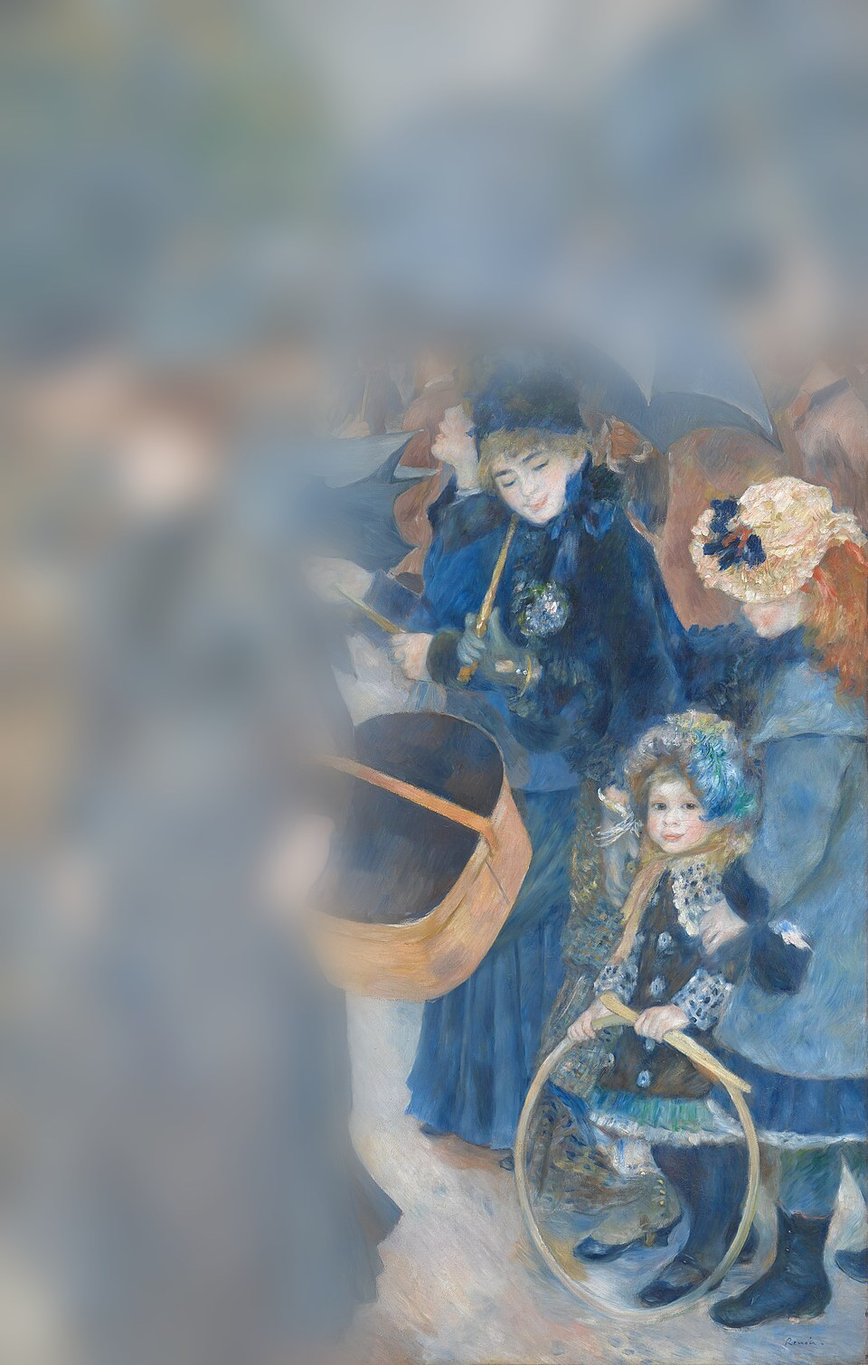
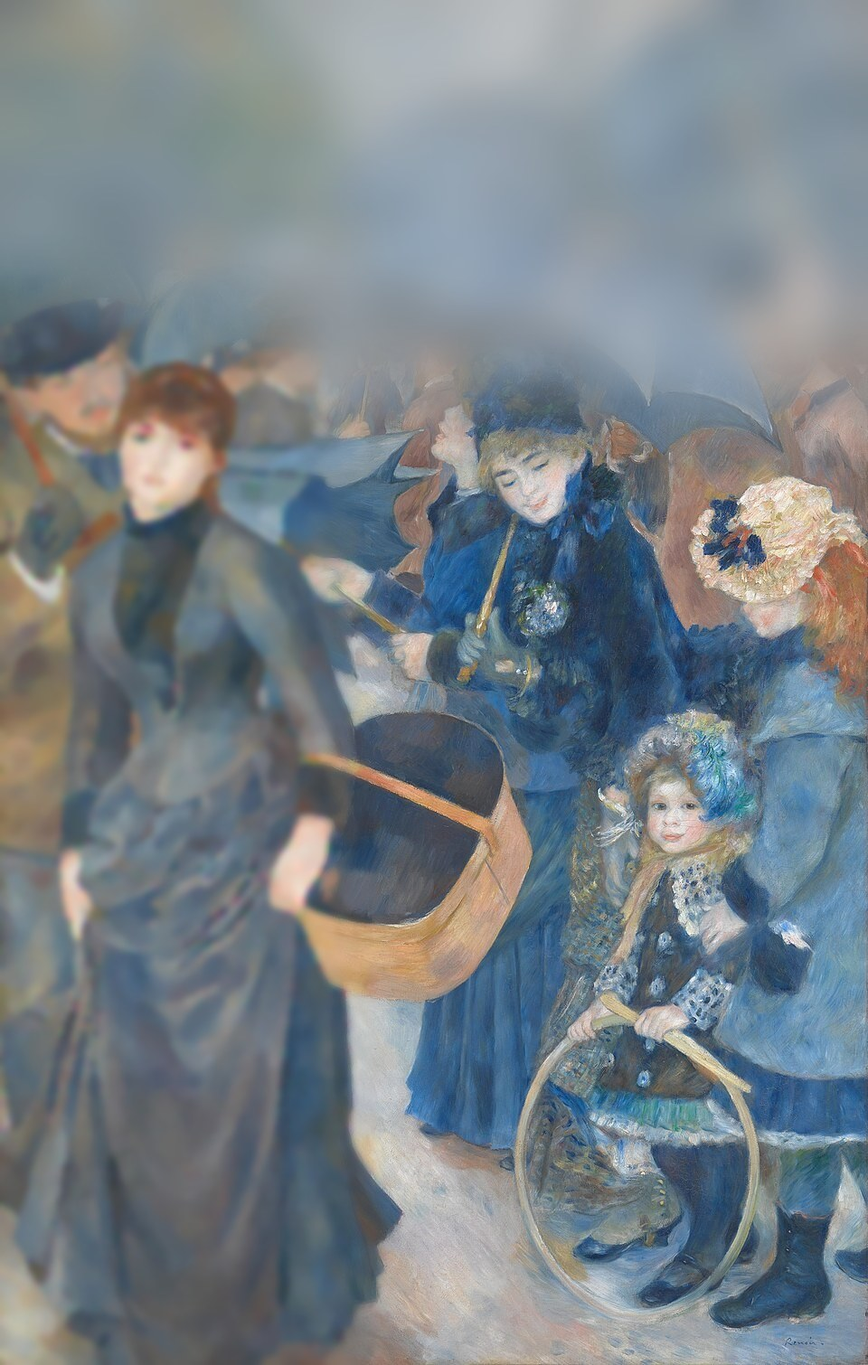
Cards show paintings at their own shape; new share image (The Starry Night); Umbrellas edits
- Cards: no grey box behind paintings; each painting is shown whole at its
  own proportions, standing on a shared baseline with a soft shadow, left
  edge aligned with its title.
- Share preview (og:image) for home and browse pages: The Starry Night,
  centred, as assets/og-share.jpg (new name so chat apps drop the old
  cached preview).
- The Umbrellas: card 4 text updated; the 1881 illustration now fades the
  umbrellas and crowd and gives the two figures on the left softer
  brushwork, leaving the right-hand group unchanged.

Claude-Session: https://claude.ai/code/session_01TkoJmgnnvFWZvrVQuTZ4Va

Changed region(s): [[0.0, 0.2179, 0.4688, 1.0], [0.0, 0.996, 0.0312, 1.0]]

diff --git a/scenes/umbrellas/index.html b/scenes/umbrellas/index.html
@@ -43,7 +43,7 @@
       <p>图片：Wikimedia Commons，公有领域 / Image: Wikimedia Commons, public domain</p>
       <img src="images/umbrellas.jpg" alt="雷诺阿《伞》约1881–86，伦敦国家美术馆 · Pierre-Auguste Renoir, The Umbrellas, about 1881–6, The National Gallery, London" width="960" height="1510" />
       <h2>发现 · Discover</h2>
-      <h3><span lang="zh-CN">一片伞</span> <span lang="en">A canopy of umbrellas</span></h3><p lang="zh-CN">画面上方四分之一，几乎都被至少十几把伞遮住了。</p> <p lang="en">The top quarter of the picture is mostly filled by a canopy of at least a dozen umbrellas.</p><h3><span lang="zh-CN">母亲和两个女儿</span> <span lang="en">A mother and her daughters</span></h3><p lang="zh-CN">右边是一位母亲和两个女儿。这一组用的是典型的印象派笔法，轻柔得像羽毛。</p> <p lang="en">On the right are a mother and her two daughters, painted in a typically Impressionist way, with soft, feathery touches.</p><h3><span lang="zh-CN">打开伞的女子</span> <span lang="en">Opening an umbrella</span></h3><p lang="zh-CN">中间那位侧面女子，抬头看着，正在打开她的伞。</p> <p lang="en">The woman in profile in the centre looks up as she opens her umbrella.</p><h3><span lang="zh-CN">左边的年轻女子</span> <span lang="en">The young woman on the left</span></h3><p lang="zh-CN">左边这位年轻女子轮廓分明、五官精确，和右边的人物画法完全不同。她是几年后才画上去的。</p> <p lang="en">The young woman on the left has clear outlines and precisely drawn features, quite unlike the figures on the right. She was painted several years later.</p><h3><span lang="zh-CN">时装会说话</span> <span lang="en">Fashion tells the date</span></h3><p lang="zh-CN">右边人物的衣服是1881年左右的款式；左边年轻女子的裙子，线条更硬朗，到1885年左右才流行起来。</p> <p lang="en">The clothes on the right follow the fashion of around 1881. The dress of the young woman on the left, with its more severe lines, only came into fashion around 1885.</p><h3><span lang="zh-CN">很难卖出去</span> <span lang="en">Hard to sell</span></h3><p lang="zh-CN">同一幅画里有两种画法、两种时装，这让它在雷诺阿生前很难卖出去。</p> <p lang="en">Two styles and two fashions in one picture made it hard to sell during Renoir&#x27;s lifetime.</p>
+      <h3><span lang="zh-CN">一片伞</span> <span lang="en">A canopy of umbrellas</span></h3><p lang="zh-CN">画面上方四分之一，几乎都被至少十几把伞遮住了。</p> <p lang="en">The top quarter of the picture is mostly filled by a canopy of at least a dozen umbrellas.</p><h3><span lang="zh-CN">母亲和两个女儿</span> <span lang="en">A mother and her daughters</span></h3><p lang="zh-CN">右边是一位母亲和两个女儿。这一组用的是典型的印象派笔法，轻柔得像羽毛。</p> <p lang="en">On the right are a mother and her two daughters, painted in a typically Impressionist way, with soft, feathery touches.</p><h3><span lang="zh-CN">打开伞的女子</span> <span lang="en">Opening an umbrella</span></h3><p lang="zh-CN">中间那位侧面女子，抬头看着，正在打开她的伞。</p> <p lang="en">The woman in profile in the centre looks up as she opens her umbrella.</p><h3><span lang="zh-CN">左边的年轻女子</span> <span lang="en">The young woman on the left</span></h3><p lang="zh-CN">她最初也是在1881年左右画的，四年后被雷诺阿重新画过：轮廓更分明，五官更精确，和右边的人物画法完全不同。</p> <p lang="en">She was first painted around 1881, then repainted by Renoir about four years later, with clearer outlines and more precise features, quite unlike the figures on the right.</p><h3><span lang="zh-CN">时装会说话</span> <span lang="en">Fashion tells the date</span></h3><p lang="zh-CN">右边人物的衣服是1881年左右的款式；左边年轻女子的裙子，线条更硬朗，到1885年左右才流行起来。</p> <p lang="en">The clothes on the right follow the fashion of around 1881. The dress of the young woman on the left, with its more severe lines, only came into fashion around 1885.</p><h3><span lang="zh-CN">很难卖出去</span> <span lang="en">Hard to sell</span></h3><p lang="zh-CN">同一幅画里有两种画法、两种时装，这让它在雷诺阿生前很难卖出去。</p> <p lang="en">Two styles and two fashions in one picture made it hard to sell during Renoir&#x27;s lifetime.</p>
       <h2>故事 · The story</h2>
       <h3>ACT I <span lang="zh-CN">第一幕 · 1881年</span> <span lang="en">1881</span></h3><p lang="zh-CN">大约1881年，雷诺阿用轻柔的印象派笔法，画下了右边的母亲、两个女儿和打开伞的女子。</p> <p lang="en">Around 1881, Renoir painted the mother, her two daughters and the woman opening her umbrella on the right, in soft Impressionist brushstrokes.</p><p>约1881–86年 · 伦敦国家美术馆 / About 1881–6 · The National Gallery, London</p><h3>ACT II <span lang="zh-CN">第二幕 · 四年后</span> <span lang="en">Four years later</span></h3><p lang="zh-CN">大约四年后，他又回到这幅画前。这时他已经开始离开印象派，转向古典艺术。他重新画了左边的两个人物，加上了背景里的人群和所有的伞。</p> <p lang="en">About four years later he returned to the canvas. By now he was moving away from Impressionism towards classical art. He reworked the two figures on the left, and added the crowd behind and all the umbrellas.</p><p>约1881–86年 · 伦敦国家美术馆 / About 1881–6 · The National Gallery, London</p><h3>ACT III <span lang="zh-CN">第三幕 · 伦敦与都柏林</span> <span lang="en">London and Dublin</span></h3><p lang="zh-CN">1917年，它作为休·莱恩爵士遗赠的一部分，进入伦敦国家美术馆，并和都柏林的休·莱恩美术馆轮流展出。2026年到2031年，它长期借展给都柏林；2026年10月到2027年1月，它暂时回到伦敦，在国家美术馆的展览《雷诺阿与爱》中展出。</p> <p lang="en">In 1917, it came to the National Gallery in London as part of the Sir Hugh Lane Bequest, and is shared with the Hugh Lane Gallery in Dublin. It is on long loan to Dublin from 2026 to 2031; from October 2026 to January 2027 it is back in London for the National Gallery&#x27;s exhibition <i>Renoir and Love</i>.</p><p>约1881–86年 · 伦敦国家美术馆 / About 1881–6 · The National Gallery, London</p>
       <p><strong><span lang="zh-CN">一幅画，两个雷诺阿。</span> <span lang="en">One painting, two Renoirs.</span></strong></p>

diff --git a/about/index.html b/about/index.html
@@ -15,15 +15,15 @@
   <meta property="og:url" content="https://tiaz369.github.io/walk-into-paintings/about/" />
   <meta property="og:title" content="关于 · About — 走进名画 | Walk into Paintings" />
   <meta property="og:description" content="走进名画是一座可以走进去的线上美术馆。每一幅名画都被做成一个可以探索的空间：走进画里，发现细节，听它背后的故事，最后去博物馆看真迹。 Walk into Paintings is an online gallery you can step inside. Each painting becomes a space to explore: walk in, discover details, hear the story behind it, then go and see the real thing in a museum." />
-  <meta property="og:image" content="https://tiaz369.github.io/walk-into-paintings/assets/og-home.jpg" />
-  <meta property="og:image:alt" content="梵高《阿尔勒的卧室》、维米尔《戴珍珠耳环的少女》、梵高《向日葵》· Van Gogh&#x27;s The Bedroom, Vermeer&#x27;s Girl with a Pearl Earring, Van Gogh&#x27;s Sunflowers" />
+  <meta property="og:image" content="https://tiaz369.github.io/walk-into-paintings/assets/og-share.jpg" />
+  <meta property="og:image:alt" content="梵高《星夜》，1889，纽约现代艺术博物馆 · Vincent van Gogh, The Starry Night, 1889, The Museum of Modern Art, New York" />
   <meta property="og:image:width" content="1200" />
   <meta property="og:image:height" content="630" />
   <meta name="twitter:card" content="summary_large_image" />
   <meta name="twitter:title" content="关于 · About — 走进名画 | Walk into Paintings" />
   <meta name="twitter:description" content="走进名画是一座可以走进去的线上美术馆。每一幅名画都被做成一个可以探索的空间：走进画里，发现细节，听它背后的故事，最后去博物馆看真迹。 Walk into Paintings is an online gallery you can step inside. Each painting becomes a space to explore: walk in, discover details, hear the story behind it, then go and see the real thing in a museum." />
-  <meta name="twitter:image" content="https://tiaz369.github.io/walk-into-paintings/assets/og-home.jpg" />
-  <meta name="twitter:image:alt" content="梵高《阿尔勒的卧室》、维米尔《戴珍珠耳环的少女》、梵高《向日葵》· Van Gogh&#x27;s The Bedroom, Vermeer&#x27;s Girl with a Pearl Earring, Van Gogh&#x27;s Sunflowers" />
+  <meta name="twitter:image" content="https://tiaz369.github.io/walk-into-paintings/assets/og-share.jpg" />
+  <meta name="twitter:image:alt" content="梵高《星夜》，1889，纽约现代艺术博物馆 · Vincent van Gogh, The Starry Night, 1889, The Museum of Modern Art, New York" />
   <script>document.documentElement.classList.add('js')</script>
   <link rel="preconnect" href="https://fonts.googleapis.com" />
   <link rel="preconnect" href="https://fonts.gstatic.com" crossorigin />

diff --git a/london/index.html b/london/index.html
@@ -15,15 +15,15 @@
   <meta property="og:url" content="https://tiaz369.github.io/walk-into-paintings/london/" />
   <meta property="og:title" content="在伦敦看真迹 · See them in London — 走进名画 | Walk into Paintings" />
   <meta property="og:description" content="在伦敦看真迹 · See them in London：伦敦国家美术馆，特拉法加广场，常设展免费 / The National Gallery, Trafalgar Square. Free entry to the permanent collection.；考陶尔德美术馆，萨默塞特宫 / The Courtauld Gallery, Somerset House" />
-  <meta property="og:image" content="https://tiaz369.github.io/walk-into-paintings/assets/og-home.jpg" />
-  <meta property="og:image:alt" content="梵高《阿尔勒的卧室》、维米尔《戴珍珠耳环的少女》、梵高《向日葵》· Van Gogh&#x27;s The Bedroom, Vermeer&#x27;s Girl with a Pearl Earring, Van Gogh&#x27;s Sunflowers" />
+  <meta property="og:image" content="https://tiaz369.github.io/walk-into-paintings/assets/og-share.jpg" />
+  <meta property="og:image:alt" content="梵高《星夜》，1889，纽约现代艺术博物馆 · Vincent van Gogh, The Starry Night, 1889, The Museum of Modern Art, New York" />
   <meta property="og:image:width" content="1200" />
   <meta property="og:image:height" content="630" />
   <meta name="twitter:card" content="summary_large_image" />
   <meta name="twitter:title" content="在伦敦看真迹 · See them in London — 走进名画 | Walk into Paintings" />
   <meta name="twitter:description" content="在伦敦看真迹 · See them in London：伦敦国家美术馆，特拉法加广场，常设展免费 / The National Gallery, Trafalgar Square. Free entry to the permanent collection.；考陶尔德美术馆，萨默塞特宫 / The Courtauld Gallery, Somerset House" />
-  <meta name="twitter:image" content="https://tiaz369.github.io/walk-into-paintings/assets/og-home.jpg" />
-  <meta name="twitter:image:alt" content="梵高《阿尔勒的卧室》、维米尔《戴珍珠耳环的少女》、梵高《向日葵》· Van Gogh&#x27;s The Bedroom, Vermeer&#x27;s Girl with a Pearl Earring, Van Gogh&#x27;s Sunflowers" />
+  <meta name="twitter:image" content="https://tiaz369.github.io/walk-into-paintings/assets/og-share.jpg" />
+  <meta name="twitter:image:alt" content="梵高《星夜》，1889，纽约现代艺术博物馆 · Vincent van Gogh, The Starry Night, 1889, The Museum of Modern Art, New York" />
   <script>document.documentElement.classList.add('js')</script>
   <link rel="preconnect" href="https://fonts.googleapis.com" />
   <link rel="preconnect" href="https://fonts.gstatic.com" crossorigin />

diff --git a/collections/national-gallery/index.html b/collections/national-gallery/index.html
@@ -15,15 +15,15 @@
   <meta property="og:url" content="https://tiaz369.github.io/walk-into-paintings/collections/national-gallery/" />
   <meta property="og:title" content="伦敦国家美术馆 · The National Gallery, London — 走进名画 | Walk into Paintings" />
   <meta property="og:description" content="伦敦国家美术馆 · The National Gallery, London：在伦敦就能看到真迹的名画 · Masterpieces you can see in London" />
-  <meta property="og:image" content="https://tiaz369.github.io/walk-into-paintings/assets/og-home.jpg" />
-  <meta property="og:image:alt" content="梵高《阿尔勒的卧室》、维米尔《戴珍珠耳环的少女》、梵高《向日葵》· Van Gogh&#x27;s The Bedroom, Vermeer&#x27;s Girl with a Pearl Earring, Van Gogh&#x27;s Sunflowers" />
+  <meta property="og:image" content="https://tiaz369.github.io/walk-into-paintings/assets/og-share.jpg" />
+  <meta property="og:image:alt" content="梵高《星夜》，1889，纽约现代艺术博物馆 · Vincent van Gogh, The Starry Night, 1889, The Museum of Modern Art, New York" />
   <meta property="og:image:width" content="1200" />
   <meta property="og:image:height" content="630" />
   <meta name="twitter:card" content="summary_large_image" />
   <meta name="twitter:title" content="伦敦国家美术馆 · The National Gallery, London — 走进名画 | Walk into Paintings" />
   <meta name="twitter:description" content="伦敦国家美术馆 · The National Gallery, London：在伦敦就能看到真迹的名画 · Masterpieces you can see in London" />
-  <meta name="twitter:image" content="https://tiaz369.github.io/walk-into-paintings/assets/og-home.jpg" />
-  <meta name="twitter:image:alt" content="梵高《阿尔勒的卧室》、维米尔《戴珍珠耳环的少女》、梵高《向日葵》· Van Gogh&#x27;s The Bedroom, Vermeer&#x27;s Girl with a Pearl Earring, Van Gogh&#x27;s Sunflowers" />
+  <meta name="twitter:image" content="https://tiaz369.github.io/walk-into-paintings/assets/og-share.jpg" />
+  <meta name="twitter:image:alt" content="梵高《星夜》，1889，纽约现代艺术博物馆 · Vincent van Gogh, The Starry Night, 1889, The Museum of Modern Art, New York" />
   <script>document.documentElement.classList.add('js')</script>
   <link rel="preconnect" href="https://fonts.googleapis.com" />
   <link rel="preconnect" href="https://fonts.gstatic.com" crossorigin />

diff --git a/collections/saint-remy/index.html b/collections/saint-remy/index.html
@@ -15,15 +15,15 @@
   <meta property="og:url" content="https://tiaz369.github.io/walk-into-paintings/collections/saint-remy/" />
   <meta property="og:title" content="梵高在圣雷米 · Van Gogh in Saint-Rémy — 走进名画 | Walk into Paintings" />
   <meta property="og:description" content="梵高在圣雷米 · Van Gogh in Saint-Rémy：1889–1890，疗养院的日子 · 1889–1890: the days in the asylum" />
-  <meta property="og:image" content="https://tiaz369.github.io/walk-into-paintings/assets/og-home.jpg" />
-  <meta property="og:image:alt" content="梵高《阿尔勒的卧室》、维米尔《戴珍珠耳环的少女》、梵高《向日葵》· Van Gogh&#x27;s The Bedroom, Vermeer&#x27;s Girl with a Pearl Earring, Van Gogh&#x27;s Sunflowers" />
+  <meta property="og:image" content="https://tiaz369.github.io/walk-into-paintings/assets/og-share.jpg" />
+  <meta property="og:image:alt" content="梵高《星夜》，1889，纽约现代艺术博物馆 · Vincent van Gogh, The Starry Night, 1889, The Museum of Modern Art, New York" />
   <meta property="og:image:width" content="1200" />
   <meta property="og:image:height" content="630" />
   <meta name="twitter:card" content="summary_large_image" />
   <meta name="twitter:title" content="梵高在圣雷米 · Van Gogh in Saint-Rémy — 走进名画 | Walk into Paintings" />
   <meta name="twitter:description" content="梵高在圣雷米 · Van Gogh in Saint-Rémy：1889–1890，疗养院的日子 · 1889–1890: the days in the asylum" />
-  <meta name="twitter:image" content="https://tiaz369.github.io/walk-into-paintings/assets/og-home.jpg" />
-  <meta name="twitter:image:alt" content="梵高《阿尔勒的卧室》、维米尔《戴珍珠耳环的少女》、梵高《向日葵》· Van Gogh&#x27;s The Bedroom, Vermeer&#x27;s Girl with a Pearl Earring, Van Gogh&#x27;s Sunflowers" />
+  <meta name="twitter:image" content="https://tiaz369.github.io/walk-into-paintings/assets/og-share.jpg" />
+  <meta name="twitter:image:alt" content="梵高《星夜》，1889，纽约现代艺术博物馆 · Vincent van Gogh, The Starry Night, 1889, The Museum of Modern Art, New York" />
   <script>document.documentElement.classList.add('js')</script>
   <link rel="preconnect" href="https://fonts.googleapis.com" />
   <link rel="preconnect" href="https://fonts.gstatic.com" crossorigin />

diff --git a/collections/arles/index.html b/collections/arles/index.html
@@ -15,15 +15,15 @@
   <meta property="og:url" content="https://tiaz369.github.io/walk-into-paintings/collections/arles/" />
   <meta property="og:title" content="梵高在阿尔勒 · Van Gogh in Arles — 走进名画 | Walk into Paintings" />
   <meta property="og:description" content="梵高在阿尔勒 · Van Gogh in Arles：1888年，等待高更的那段日子 · 1888: the days of waiting for Gauguin" />
-  <meta property="og:image" content="https://tiaz369.github.io/walk-into-paintings/assets/og-home.jpg" />
-  <meta property="og:image:alt" content="梵高《阿尔勒的卧室》、维米尔《戴珍珠耳环的少女》、梵高《向日葵》· Van Gogh&#x27;s The Bedroom, Vermeer&#x27;s Girl with a Pearl Earring, Van Gogh&#x27;s Sunflowers" />
+  <meta property="og:image" content="https://tiaz369.github.io/walk-into-paintings/assets/og-share.jpg" />
+  <meta property="og:image:alt" content="梵高《星夜》，1889，纽约现代艺术博物馆 · Vincent van Gogh, The Starry Night, 1889, The Museum of Modern Art, New York" />
   <meta property="og:image:width" content="1200" />
   <meta property="og:image:height" content="630" />
   <meta name="twitter:card" content="summary_large_image" />
   <meta name="twitter:title" content="梵高在阿尔勒 · Van Gogh in Arles — 走进名画 | Walk into Paintings" />
   <meta name="twitter:description" content="梵高在阿尔勒 · Van Gogh in Arles：1888年，等待高更的那段日子 · 1888: the days of waiting for Gauguin" />
-  <meta name="twitter:image" content="https://tiaz369.github.io/walk-into-paintings/assets/og-home.jpg" />
-  <meta name="twitter:image:alt" content="梵高《阿尔勒的卧室》、维米尔《戴珍珠耳环的少女》、梵高《向日葵》· Van Gogh&#x27;s The Bedroom, Vermeer&#x27;s Girl with a Pearl Earring, Van Gogh&#x27;s Sunflowers" />
+  <meta name="twitter:image" content="https://tiaz369.github.io/walk-into-paintings/assets/og-share.jpg" />
+  <meta name="twitter:image:alt" content="梵高《星夜》，1889，纽约现代艺术博物馆 · Vincent van Gogh, The Starry Night, 1889, The Museum of Modern Art, New York" />
   <script>document.documentElement.classList.add('js')</script>
   <link rel="preconnect" href="https://fonts.googleapis.com" />
   <link rel="preconnect" href="https://fonts.gstatic.com" crossorigin />

diff --git a/collections/delft/index.html b/collections/delft/index.html
@@ -15,15 +15,15 @@
   <meta property="og:url" content="https://tiaz369.github.io/walk-into-paintings/collections/delft/" />
   <meta property="og:title" content="维米尔的代尔夫特 · Vermeer&#x27;s Delft — 走进名画 | Walk into Paintings" />
   <meta property="og:description" content="维米尔的代尔夫特 · Vermeer&#x27;s Delft：安静的室内和光 · Quiet interiors and light" />
-  <meta property="og:image" content="https://tiaz369.github.io/walk-into-paintings/assets/og-home.jpg" />
-  <meta property="og:image:alt" content="梵高《阿尔勒的卧室》、维米尔《戴珍珠耳环的少女》、梵高《向日葵》· Van Gogh&#x27;s The Bedroom, Vermeer&#x27;s Girl with a Pearl Earring, Van Gogh&#x27;s Sunflowers" />
+  <meta property="og:image" content="https://tiaz369.github.io/walk-into-paintings/assets/og-share.jpg" />
+  <meta property="og:image:alt" content="梵高《星夜》，1889，纽约现代艺术博物馆 · Vincent van Gogh, The Starry Night, 1889, The Museum of Modern Art, New York" />
   <meta property="og:image:width" content="1200" />
   <meta property="og:image:height" content="630" />
   <meta name="twitter:card" content="summary_large_image" />
   <meta name="twitter:title" content="维米尔的代尔夫特 · Vermeer&#x27;s Delft — 走进名画 | Walk into Paintings" />
   <meta name="twitter:description" content="维米尔的代尔夫特 · Vermeer&#x27;s Delft：安静的室内和光 · Quiet interiors and light" />
-  <meta name="twitter:image" content="https://tiaz369.github.io/walk-into-paintings/assets/og-home.jpg" />
-  <meta name="twitter:image:alt" content="梵高《阿尔勒的卧室》、维米尔《戴珍珠耳环的少女》、梵高《向日葵》· Van Gogh&#x27;s The Bedroom, Vermeer&#x27;s Girl with a Pearl Earring, Van Gogh&#x27;s Sunflowers" />
+  <meta name="twitter:image" content="https://tiaz369.github.io/walk-into-paintings/assets/og-share.jpg" />
+  <meta name="twitter:image:alt" content="梵高《星夜》，1889，纽约现代艺术博物馆 · Vincent van Gogh, The Starry Night, 1889, The Museum of Modern Art, New York" />
   <script>document.documentElement.classList.add('js')</script>
   <link rel="preconnect" href="https://fonts.googleapis.com" />
   <link rel="preconnect" href="https://fonts.gstatic.com" crossorigin />

diff --git a/collections/nuenen/index.html b/collections/nuenen/index.html
@@ -15,15 +15,15 @@
   <meta property="og:url" content="https://tiaz369.github.io/walk-into-paintings/collections/nuenen/" />
   <meta property="og:title" content="梵高在纽南 · Van Gogh in Nuenen — 走进名画 | Walk into Paintings" />
   <meta property="og:description" content="梵高在纽南 · Van Gogh in Nuenen：1883–1885，荷兰时期 · 1883–1885: the Dutch years" />
-  <meta property="og:image" content="https://tiaz369.github.io/walk-into-paintings/assets/og-home.jpg" />
-  <meta property="og:image:alt" content="梵高《阿尔勒的卧室》、维米尔《戴珍珠耳环的少女》、梵高《向日葵》· Van Gogh&#x27;s The Bedroom, Vermeer&#x27;s Girl with a Pearl Earring, Van Gogh&#x27;s Sunflowers" />
+  <meta property="og:image" content="https://tiaz369.github.io/walk-into-paintings/assets/og-share.jpg" />
+  <meta property="og:image:alt" content="梵高《星夜》，1889，纽约现代艺术博物馆 · Vincent van Gogh, The Starry Night, 1889, The Museum of Modern Art, New York" />
   <meta property="og:image:width" content="1200" />
   <meta property="og:image:height" content="630" />
   <meta name="twitter:card" content="summary_large_image" />
   <meta name="twitter:title" content="梵高在纽南 · Van Gogh in Nuenen — 走进名画 | Walk into Paintings" />
   <meta name="twitter:description" content="梵高在纽南 · Van Gogh in Nuenen：1883–1885，荷兰时期 · 1883–1885: the Dutch years" />
-  <meta name="twitter:image" content="https://tiaz369.github.io/walk-into-paintings/assets/og-home.jpg" />
-  <meta name="twitter:image:alt" content="梵高《阿尔勒的卧室》、维米尔《戴珍珠耳环的少女》、梵高《向日葵》· Van Gogh&#x27;s The Bedroom, Vermeer&#x27;s Girl with a Pearl Earring, Van Gogh&#x27;s Sunflowers" />
+  <meta name="twitter:image" content="https://tiaz369.github.io/walk-into-paintings/assets/og-share.jpg" />
+  <meta name="twitter:image:alt" content="梵高《星夜》，1889，纽约现代艺术博物馆 · Vincent van Gogh, The Starry Night, 1889, The Museum of Modern Art, New York" />
   <script>document.documentElement.classList.add('js')</script>
   <link rel="preconnect" href="https://fonts.googleapis.com" />
   <link rel="preconnect" href="https://fonts.gstatic.com" crossorigin />

diff --git a/collections/stage/index.html b/collections/stage/index.html
@@ -15,15 +15,15 @@
   <meta property="og:url" content="https://tiaz369.github.io/walk-into-paintings/collections/stage/" />
   <meta property="og:title" content="舞台与排练 · Stage and Rehearsal — 走进名画 | Walk into Paintings" />
   <meta property="og:description" content="舞台与排练 · Stage and Rehearsal：德加的芭蕾世界 · Degas&#x27;s world of ballet" />
-  <meta property="og:image" content="https://tiaz369.github.io/walk-into-paintings/assets/og-home.jpg" />
-  <meta property="og:image:alt" content="梵高《阿尔勒的卧室》、维米尔《戴珍珠耳环的少女》、梵高《向日葵》· Van Gogh&#x27;s The Bedroom, Vermeer&#x27;s Girl with a Pearl Earring, Van Gogh&#x27;s Sunflowers" />
+  <meta property="og:image" content="https://tiaz369.github.io/walk-into-paintings/assets/og-share.jpg" />
+  <meta property="og:image:alt" content="梵高《星夜》，1889，纽约现代艺术博物馆 · Vincent van Gogh, The Starry Night, 1889, The Museum of Modern Art, New York" />
   <meta property="og:image:width" content="1200" />
   <meta property="og:image:height" content="630" />
   <meta name="twitter:card" content="summary_large_image" />
   <meta name="twitter:title" content="舞台与排练 · Stage and Rehearsal — 走进名画 | Walk into Paintings" />
   <meta name="twitter:description" content="舞台与排练 · Stage and Rehearsal：德加的芭蕾世界 · Degas&#x27;s world of ballet" />
-  <meta name="twitter:image" content="https://tiaz369.github.io/walk-into-paintings/assets/og-home.jpg" />
-  <meta name="twitter:image:alt" content="梵高《阿尔勒的卧室》、维米尔《戴珍珠耳环的少女》、梵高《向日葵》· Van Gogh&#x27;s The Bedroom, Vermeer&#x27;s Girl with a Pearl Earring, Van Gogh&#x27;s Sunflowers" />
+  <meta name="twitter:image" content="https://tiaz369.github.io/walk-into-paintings/assets/og-share.jpg" />
+  <meta name="twitter:image:alt" content="梵高《星夜》，1889，纽约现代艺术博物馆 · Vincent van Gogh, The Starry Night, 1889, The Museum of Modern Art, New York" />
   <script>document.documentElement.classList.add('js')</script>
   <link rel="preconnect" href="https://fonts.googleapis.com" />
   <link rel="preconnect" href="https://fonts.gstatic.com" crossorigin />

diff --git a/versions/index.html b/versions/index.html
@@ -15,15 +15,15 @@
   <meta property="og:url" content="https://tiaz369.github.io/walk-into-paintings/versions/" />
   <meta property="og:title" content="同一幅画的几个版本 · One painting, many versions — 走进名画 | Walk into Paintings" />
   <meta property="og:description" content="同一幅画的几个版本 · One painting, many versions" />
-  <meta property="og:image" content="https://tiaz369.github.io/walk-into-paintings/assets/og-home.jpg" />
-  <meta property="og:image:alt" content="梵高《阿尔勒的卧室》、维米尔《戴珍珠耳环的少女》、梵高《向日葵》· Van Gogh&#x27;s The Bedroom, Vermeer&#x27;s Girl with a Pearl Earring, Van Gogh&#x27;s Sunflowers" />
+  <meta property="og:image" content="https://tiaz369.github.io/walk-into-paintings/assets/og-share.jpg" />
+  <meta property="og:image:alt" content="梵高《星夜》，1889，纽约现代艺术博物馆 · Vincent van Gogh, The Starry Night, 1889, The Museum of Modern Art, New York" />
   <meta property="og:image:width" content="1200" />
   <meta property="og:image:height" content="630" />
   <meta name="twitter:card" content="summary_large_image" />
   <meta name="twitter:title" content="同一幅画的几个版本 · One painting, many versions — 走进名画 | Walk into Paintings" />
   <meta name="twitter:description" content="同一幅画的几个版本 · One painting, many versions" />
-  <meta name="twitter:image" content="https://tiaz369.github.io/walk-into-paintings/assets/og-home.jpg" />
-  <meta name="twitter:image:alt" content="梵高《阿尔勒的卧室》、维米尔《戴珍珠耳环的少女》、梵高《向日葵》· Van Gogh&#x27;s The Bedroom, Vermeer&#x27;s Girl with a Pearl Earring, Van Gogh&#x27;s Sunflowers" />
+  <meta name="twitter:image" content="https://tiaz369.github.io/walk-into-paintings/assets/og-share.jpg" />
+  <meta name="twitter:image:alt" content="梵高《星夜》，1889，纽约现代艺术博物馆 · Vincent van Gogh, The Starry Night, 1889, The Museum of Modern Art, New York" />
   <script>document.documentElement.classList.add('js')</script>
   <link rel="preconnect" href="https://fonts.googleapis.com" />
   <link rel="preconnect" href="https://fonts.gstatic.com" crossorigin />

diff --git a/museums/index.html b/museums/index.html
@@ -15,15 +15,15 @@
   <meta property="og:url" content="https://tiaz369.github.io/walk-into-paintings/museums/" />
   <meta property="og:title" content="博物馆 · Museums — 走进名画 | Walk into Paintings" />
   <meta property="og:description" content="按博物馆浏览：去哪里看真迹 · Browse by museum: where to see the real paintings" />
-  <meta property="og:image" content="https://tiaz369.github.io/walk-into-paintings/assets/og-home.jpg" />
-  <meta property="og:image:alt" content="梵高《阿尔勒的卧室》、维米尔《戴珍珠耳环的少女》、梵高《向日葵》· Van Gogh&#x27;s The Bedroom, Vermeer&#x27;s Girl with a Pearl Earring, Van Gogh&#x27;s Sunflowers" />
+  <meta property="og:image" content="https://tiaz369.github.io/walk-into-paintings/assets/og-share.jpg" />
+  <meta property="og:image:alt" content="梵高《星夜》，1889，纽约现代艺术博物馆 · Vincent van Gogh, The Starry Night, 1889, The Museum of Modern Art, New York" />
   <meta property="og:image:width" content="1200" />
   <meta property="og:image:height" content="630" />
   <meta name="twitter:card" content="summary_large_image" />
   <meta name="twitter:title" content="博物馆 · Museums — 走进名画 | Walk into Paintings" />
   <meta name="twitter:description" content="按博物馆浏览：去哪里看真迹 · Browse by museum: where to see the real paintings" />
-  <meta name="twitter:image" content="https://tiaz369.github.io/walk-into-paintings/assets/og-home.jpg" />
-  <meta name="twitter:image:alt" content="梵高《阿尔勒的卧室》、维米尔《戴珍珠耳环的少女》、梵高《向日葵》· Van Gogh&#x27;s The Bedroom, Vermeer&#x27;s Girl with a Pearl Earring, Van Gogh&#x27;s Sunflowers" />
+  <meta name="twitter:image" content="https://tiaz369.github.io/walk-into-paintings/assets/og-share.jpg" />
+  <meta name="twitter:image:alt" content="梵高《星夜》，1889，纽约现代艺术博物馆 · Vincent van Gogh, The Starry Night, 1889, The Museum of Modern Art, New York" />
   <script>document.documentElement.classList.add('js')</script>
   <link rel="preconnect" href="https://fonts.googleapis.com" />
   <link rel="preconnect" href="https://fonts.gstatic.com" crossorigin />

diff --git a/map/index.html b/map/index.html
@@ -15,15 +15,15 @@
   <meta property="og:url" content="https://tiaz369.github.io/walk-into-paintings/map/" />
   <meta property="og:title" content="地图 · Map — 走进名画 | Walk into Paintings" />
   <meta property="og:description" content="画在哪里、现在在哪里 · Where the paintings were made, and where they are now" />
-  <meta property="og:image" content="https://tiaz369.github.io/walk-into-paintings/assets/og-home.jpg" />
-  <meta property="og:image:alt" content="梵高《阿尔勒的卧室》、维米尔《戴珍珠耳环的少女》、梵高《向日葵》· Van Gogh&#x27;s The Bedroom, Vermeer&#x27;s Girl with a Pearl Earring, Van Gogh&#x27;s Sunflowers" />
+  <meta property="og:image" content="https://tiaz369.github.io/walk-into-paintings/assets/og-share.jpg" />
+  <meta property="og:image:alt" content="梵高《星夜》，1889，纽约现代艺术博物馆 · Vincent van Gogh, The Starry Night, 1889, The Museum of Modern Art, New York" />
   <meta property="og:image:width" content="1200" />
   <meta property="og:image:height" content="630" />
   <meta name="twitter:card" content="summary_large_image" />
   <meta name="twitter:title" content="地图 · Map — 走进名画 | Walk into Paintings" />
   <meta name="twitter:description" content="画在哪里、现在在哪里 · Where the paintings were made, and where they are now" />
-  <meta name="twitter:image" content="https://tiaz369.github.io/walk-into-paintings/assets/og-home.jpg" />
-  <meta name="twitter:image:alt" content="梵高《阿尔勒的卧室》、维米尔《戴珍珠耳环的少女》、梵高《向日葵》· Van Gogh&#x27;s The Bedroom, Vermeer&#x27;s Girl with a Pearl Earring, Van Gogh&#x27;s Sunflowers" />
+  <meta name="twitter:image" content="https://tiaz369.github.io/walk-into-paintings/assets/og-share.jpg" />
+  <meta name="twitter:image:alt" content="梵高《星夜》，1889，纽约现代艺术博物馆 · Vincent van Gogh, The Starry Night, 1889, The Museum of Modern Art, New York" />
   <script>document.documentElement.classList.add('js')</script>
   <link rel="preconnect" href="https://fonts.googleapis.com" />
   <link rel="preconnect" href="https://fonts.gstatic.com" crossorigin />
